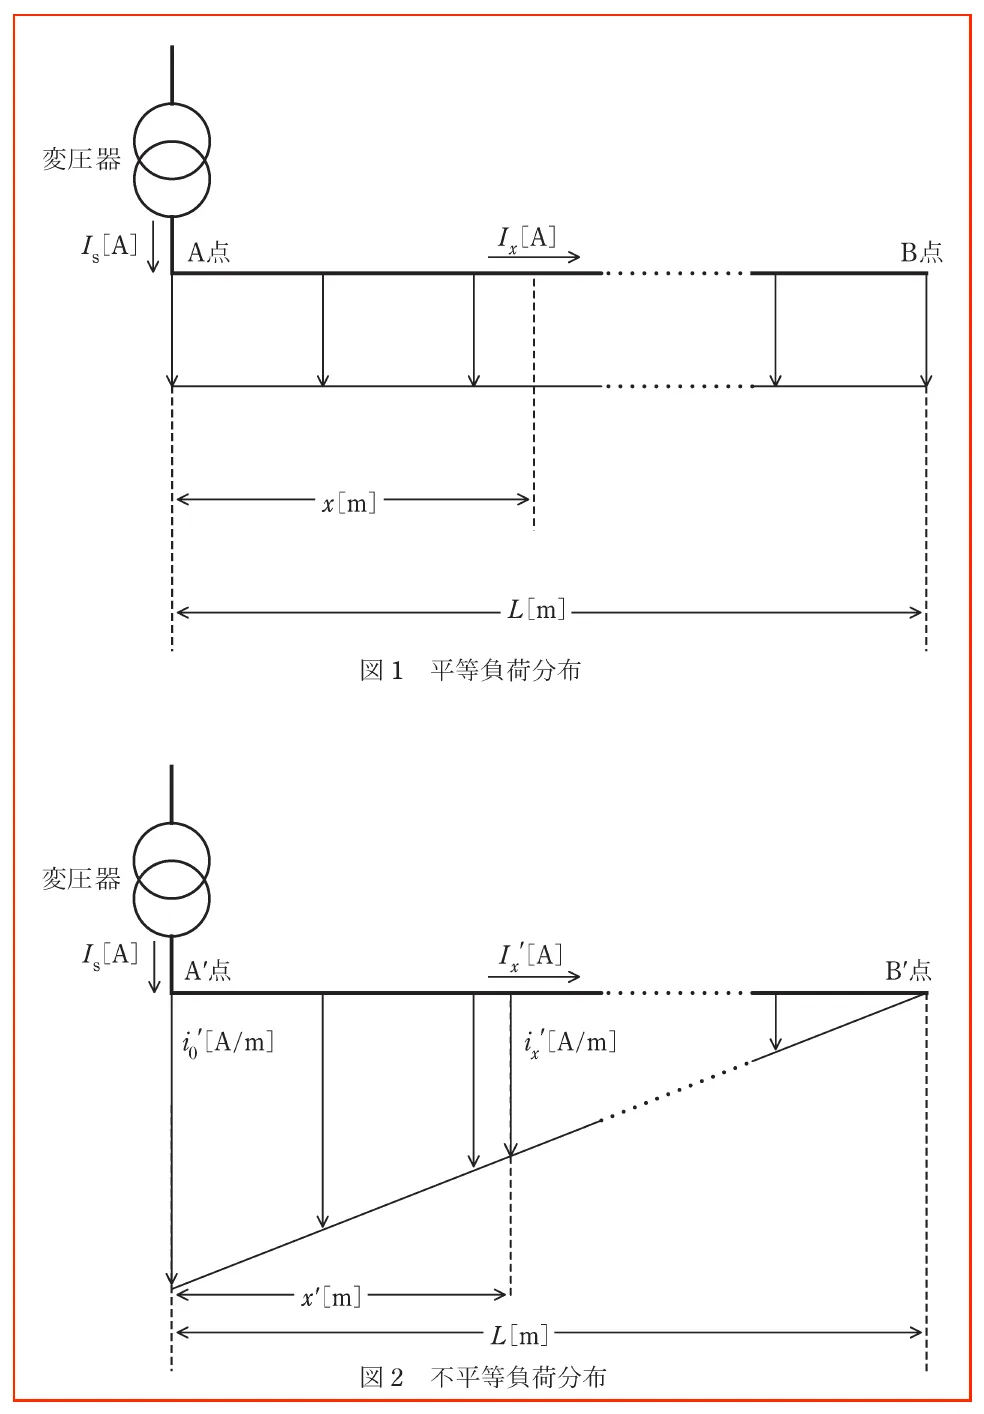
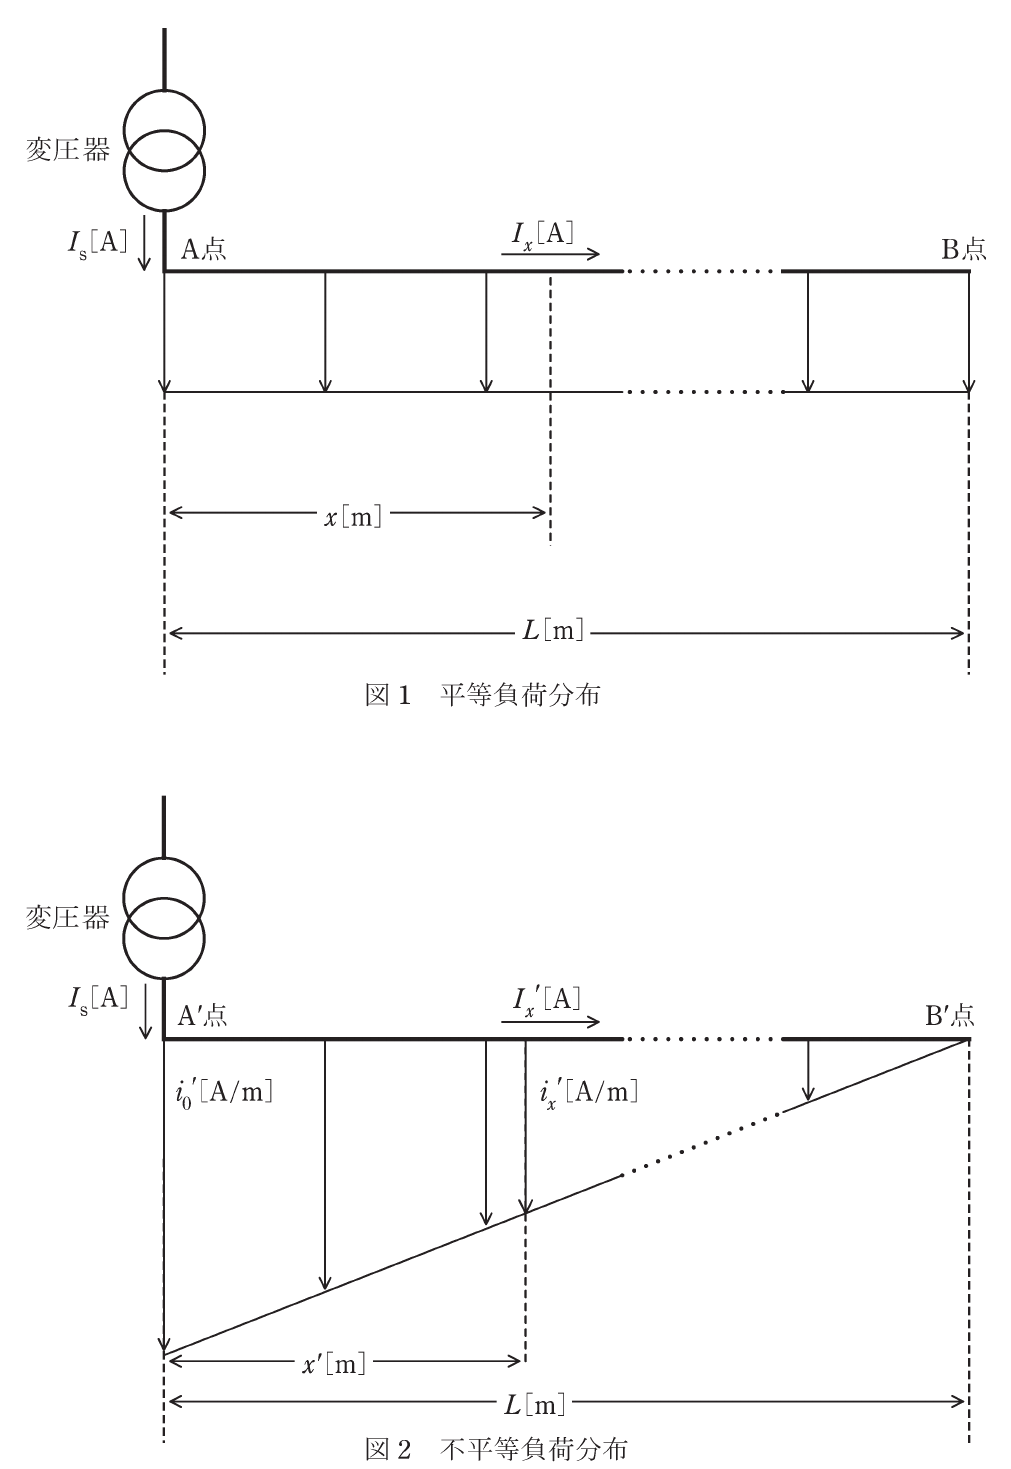
Fix R01 and R05 AnkiTap web questions

diff --git a/AnkiTapWeb/app.js b/AnkiTapWeb/app.js
@@ -703,7 +703,8 @@ function printQuestionText(question) {
 }
 
 function appendPrintImage(target, question) {
-  if (!question.questionImage) {
+  const paths = imageList(question.questionImage);
+  if (paths.length === 0) {
     return;
   }
 
@@ -711,11 +712,14 @@ function appendPrintImage(target, question) {
   section.className = "print-section print-image-section";
   const heading = document.createElement("h3");
   heading.textContent = "問題図";
-  const image = document.createElement("img");
-  image.className = "print-question-image";
-  image.alt = "問題図";
-  setImageSource(image, question.questionImage);
-  section.append(heading, image);
+  const images = paths.map((path, index) => {
+    const image = document.createElement("img");
+    image.className = "print-question-image";
+    image.alt = `問題図${index + 1}`;
+    setImageSource(image, path);
+    return image;
+  });
+  section.append(heading, ...images);
   target.append(section);
 }
 
@@ -921,8 +925,9 @@ function renderPastProblem(question) {
 
   elements.pastQuestionImage.textContent = "";
   elements.pastQuestionImage.classList.remove("past-question-image-full-height");
+  const imagePaths = imageList(question.questionImage);
 
-  if (!question.questionImage) {
+  if (imagePaths.length === 0) {
     elements.pastQuestionImage.closest(".past-question-panel").classList.add("no-question-image");
     elements.pastQuestionImageLabel.classList.add("hidden");
     elements.pastQuestionImage.classList.add("hidden");
@@ -933,22 +938,25 @@ function renderPastProblem(question) {
   elements.pastQuestionImageLabel.classList.remove("hidden");
   elements.pastQuestionImage.classList.remove("hidden");
 
-  const image = document.createElement("img");
-  image.className = "past-question-img";
-  if (isFitWidthQuestionFigure(question)) {
-    image.classList.add("past-question-img-fit-width");
-    elements.pastQuestionImage.classList.add("past-question-image-full-height");
-  }
-  if (isTallQuestionFigure(question)) {
-    image.classList.add("past-question-img-tall");
-    elements.pastQuestionImage.classList.add("past-question-image-full-height");
-  }
-  if (hasTrimmedImageBorder(question.questionImage)) {
-    image.classList.add("image-trim-border");
-  }
-  image.alt = "過去問の問題図";
-  setImageSource(image, question.questionImage);
-  elements.pastQuestionImage.append(image);
+  const images = imagePaths.map((path, index) => {
+    const image = document.createElement("img");
+    image.className = "past-question-img";
+    if (isFitWidthQuestionFigure(question)) {
+      image.classList.add("past-question-img-fit-width");
+      elements.pastQuestionImage.classList.add("past-question-image-full-height");
+    }
+    if (isTallQuestionFigure(question)) {
+      image.classList.add("past-question-img-tall");
+      elements.pastQuestionImage.classList.add("past-question-image-full-height");
+    }
+    if (hasTrimmedImageBorder(path)) {
+      image.classList.add("image-trim-border");
+    }
+    image.alt = `過去問の問題図${index + 1}`;
+    setImageSource(image, path);
+    return image;
+  });
+  elements.pastQuestionImage.append(...images);
 }
 
 function isFitWidthQuestionFigure(question) {
@@ -960,7 +968,9 @@ function isFitWidthQuestionFigure(question) {
     "r05_second_kikai_seigyo_q04",
     "r05_second_denryoku_kanri_q03",
     "r05_second_denryoku_kanri_q04",
-    "r03_second_denryoku_kanri_q05"
+    "r03_second_denryoku_kanri_q05",
+    "r01_second_denryoku_kanri_q03",
+    "r01_second_denryoku_kanri_q04"
   ].includes(question.id);
 }
 
@@ -988,7 +998,6 @@ function hasTrimmedImageBorder(path) {
     "data/questions/r01/second/figures/kikai_seigyo_q03_fig",
     "data/questions/r01/second/figures/kikai_seigyo_q04_fig",
     "data/questions/r01/second/figures/denryoku_kanri_q04_answer_fig1",
-    "data/questions/r01/second/figures/denryoku_kanri_q05_fig",
     "data/questions/r01/second/figures/denryoku_kanri_q05_answer_fig1"
   ].includes(normalizedPath);
 }

diff --git a/AnkiTapWeb/style.css b/AnkiTapWeb/style.css
@@ -233,8 +233,8 @@ progress::-webkit-progress-value {
 }
 
 .question-image-content {
-  align-items: flex-start;
-  justify-content: center;
+  align-items: center;
+  justify-content: flex-start;
   padding: 0;
 }
 
@@ -307,8 +307,10 @@ progress::-webkit-progress-value {
   overflow: auto;
   scrollbar-gutter: stable;
   display: flex;
-  align-items: flex-start;
-  justify-content: center;
+  flex-direction: column;
+  gap: 12px;
+  align-items: center;
+  justify-content: flex-start;
   color: #64748b;
   font-size: 14px;
 }